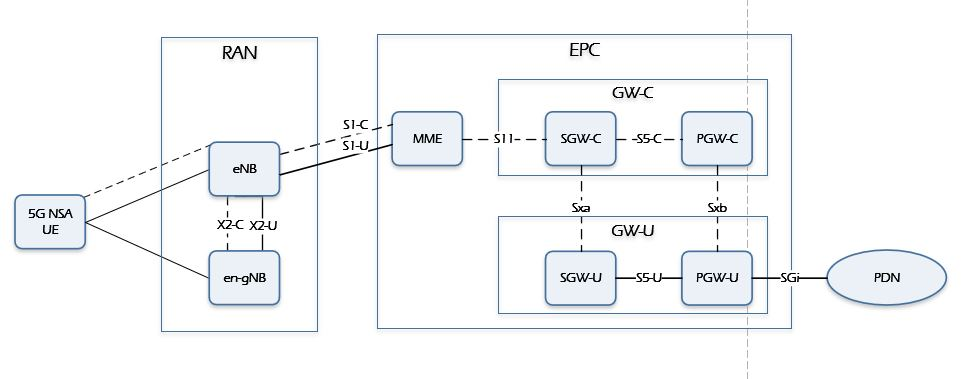
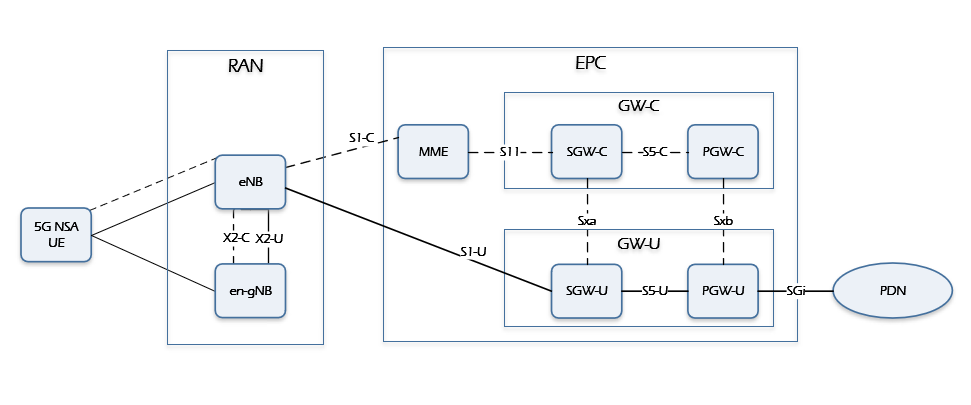
Fixed review comments from Anurag
Corrected the Option 3 and Option 3-a pictures w.r.t S1-U path
Spell check in the document
Removed references not used in the document
Added abbreviations.

diff --git a/doc/core-network/openness_5g_nsa.md b/doc/core-network/openness_5g_nsa.md
@@ -15,12 +15,13 @@ Edge Cloud Deployment with 3GPP 5G Non Stand Alone
   - [OpenNESS deployment for 5G-NSA Option 3x](#openness-deployment-for-5g-nsa-option-3x)
 - [Summary](#summary)
 - [References](#references)
+- [List of abbreviations](#list-of-abbreviations)
 
 # Introduction
 
-Edge Compute is highlighted as a key deployment mechanism for delivering services to end users by placing applications closer to the user. Network and Enterprise operators are trying to take advantage of this advancement to provide low latency, user centric and secure edge services. 
+Edge Compute is highlighted as a key deployment mechanism for delivering services to end users by placing applications closer to the user. Network and Enterprise operators are trying to take advantage of this advancement to provide low latency, user centric and secure edge services.
 
-OpenNESS supports edge compute deployment for LTE(CUPS) as described  in[OpenNESS_EPC] and 5G Stand Alone as described in  [OpenNESS_NGC]. 5G can be deployed in five different deployment options as described in [3GPP 23.799][3GPP_23799], where SA (standalone) options consist of only one generation of radio access technology and NSA (non stand alone) options consist of two generations of radio access technologies (4G LTE and 5G). The early deployments of 5G will be adopting either Non Stand Alone(NSA) option 3 or standalone option 2 as the standardization of these two options have already been completed. The focus of this paper is towards the edge deployment using the **5G NSA Option-3 deployment**. 
+OpenNESS supports edge compute deployment for LTE(CUPS) as described  in[OpenNESS_EPC] and 5G Stand Alone as described in  [OpenNESS_NGC]. 5G can be deployed in five different deployment options as described in [3GPP 23.799][3GPP_23799], where SA (standalone) options consist of only one generation of radio access technology and NSA (non stand alone) options consist of two generations of radio access technologies (4G LTE and 5G). The early deployments of 5G will be adopting either Non Stand Alone(NSA) option 3 or standalone option 2 as the standardization of these two options have already been completed. The focus of this paper is towards the edge deployment using the **5G NSA Option-3 deployment**.
 
 # 5G NSA Option-3 Architecture aspects
 
@@ -69,7 +70,7 @@ In this configuration, the LTE eNB will act as the Master and will have control 
 
 # Edge Deployments with 5G NSA
 
-The focus of this chapter would be considering the 5G NSA Option-3x. Option 3x has been considered as this the industry main stream option as described in [GSMA_5G_NSA]. With the 5G NSA network the benefit seen over LTE networks is only enhanced mobile broadband (eMBB). The 5G features like URLCC, massive IOT cannot be supported as still the 5G NSA core network is based out of EPC. 
+The focus of this chapter would be considering the 5G NSA Option-3x. Option 3x has been considered as this the industry main stream option as described in [GSMA_5G_NSA]. With the 5G NSA network the benefit seen over LTE networks is only enhanced mobile broadband (eMBB). The 5G features like URLLC, massive IOT cannot be supported as still the 5G NSA core network is based out of EPC. 
 
 Before the Edge platform location and integration is described its important to understand the traffic flows considering two different PDN's ( Data and Voice) and along with the UE being in 4G only coverage and dual coverage. The figures here show the traffic flows for the different coverage scenarios: 
 
@@ -91,11 +92,11 @@ There are two possible flows
 
 ## OpenNESS deployment for 5G-NSA Option 3x
 
-The MEC solution is dependant on the Core Network deployed. MEC can be supported in EPC, but without a generic standardized framework. 
+The MEC solution is dependent on the Core Network deployed. MEC can be supported in EPC, but without a generic standardized framework.
 
 For MEC with EPC there are generally two approaches: SGi-based and S1-based.
 
- The SGi-based approach for MEC can be addressed through a distributed anchor point approach. The distributed anchor point approach  has been demonstarted with OpenNESS, as described in [OpenNESS_epc] Deployment model 3. The OpenNESS EPC deployment can work seamlessly with the 5G NSA as long as the traffic intercept point is the SGi Interface. A deployment model of OpenNESS with 5G NSA is shown below: 
+ The SGi-based approach for MEC can be addressed through a distributed anchor point approach. The distributed anchor point approach  has been demonstrated with OpenNESS, as described in [OpenNESS_epc] Deployment model 3. The OpenNESS EPC deployment can work seamlessly with the 5G NSA as long as the traffic intercept point is the SGi Interface. A deployment model of OpenNESS with 5G NSA is shown below:
 
 ![OpenNESS-NSA-DEpc](5g-nsa-images/openness-nsa-depc.png)
 
@@ -105,13 +106,14 @@ The API's exposed by the OpenNESS Core Network Configuration Agent (CNCA) can be
 
 - Selectors: Bind the user plane to APN, TAC, etc. in the control plane, so that UEs can be assigned to a particular user plane (PGW-U and/or SGW-U) at the time of connection establishment.
 
-- Entitlements: Allow further level of control in the gateway selection for UEs at EPC Control plane through IMSIs. It is recommended to use some level of indirect reference of IMSIs (proprietary to the operator network) to identify UEs, rather than to use IMSI itself.
+- Entitlements: Allow further level of control in the gateway selection for UEs at EPC Control plane through IMSI's. It is recommended to use some level of indirect reference of IMSI's (proprietary to the operator network) to identify UEs, rather than to use IMSI itself.
 
-Further informaton on the OpenNESS implementation can be found in [OpenNESS_EPC]
+Further information on the OpenNESS implementation can be found in [OpenNESS_EPC]
 
 The S1-based approach for MEC can be addressed as “bump-in-the-wire” implementation whereby all uplink traffic on S1 is intercepted and inspected, some traffic is diverted towards the MEC platform, while the rest of it is re-injected on S1 in the uplink. S1-based approach is currently not in the scope of OpenNESS functionality
 
 # Summary
+
 This white paper describes an investigation of how the OpenNESS support for LTE CUPS based edge platform can be integrated with an 5G NSA network Option-3x. Further validation of the OpenNESS support for 5G NSA can be carried out with commercial 5G NSA partners.
 
 # References
@@ -122,11 +124,9 @@ This white paper describes an investigation of how the OpenNESS support for LTE 
 
 3. GSMA 5G Implementation Guidelines: NSA Option 3 February 2020 - <https://www.gsma.com/futurenetworks/wp-content/uploads/2019/03/5G-Implementation-Guidelines-NSA-Option-3-v2.1.pdf>
 
-4. ETSI White Paper #24 - MEC Deployments in 4G and Evolution Towards 5G, First Edition, February 2018 - <https://www.etsi.org/images/files/ETSIWhitePapers/etsi_wp24_MEC_deployment_in_4G_5G_FINAL.pdf.>
+4. Edge Cloud Deployment with 3GPP 4G LTE CUPS of EPC - <https://github.com/otcshare/specs/blob/master/doc/core-network/openness_epc.md>
 
-5. Edge Cloud Deployment with 3GPP 4G LTE CUPS of EPC - <https://github.com/otcshare/specs/blob/master/doc/core-network/openness_epc.md>
-
-6. Edge Cloud Deployment with 3GPP 5G Stand Alone - <https://github.com/otcshare/specs/blob/master/doc/core-network/openness_ngc.md>
+5. Edge Cloud Deployment with 3GPP 5G Stand Alone - <https://github.com/otcshare/specs/blob/master/doc/core-network/openness_ngc.md>
 
 [3GPP_23799]: <https://www.3gpp.org/DynaReport/23799.htm> "3GPP 23.799 Study on Architecture for Next Generation System(Release 14) Annex J: Deployment Scenarios"
 
@@ -134,8 +134,27 @@ This white paper describes an investigation of how the OpenNESS support for LTE 
 
 [GSMA_5G_NSA]: <https://www.gsma.com/futurenetworks/wp-content/uploads/2019/03/5G-Implementation-Guidelines-NSA-Option-3-v2.1.pdf> "GSMA 5G Implementation Guidelines: NSA Option 3 February 2020"  
 
-[ETSI_4G_WP]: <https://www.etsi.org/images/files/ETSIWhitePapers/etsi_wp24_MEC_deployment_in_4G_5G_FINAL.pdf.> "ETSI White Paper #24 - MEC Deployments in 4G and Evolution Towards 5G, First Edition, February 2018"
-
 [OpenNESS_EPC]: <https://github.com/otcshare/specs/blob/master/doc/core-network/openness_epc.md> "Edge Cloud Deployment with 3GPP 4G LTE CUPS of EPC"
 
 [OpenNESS_NGC]: <https://github.com/otcshare/specs/blob/master/doc/core-network/openness_ngc.md> "Edge Cloud Deployment with 3GPP 5G Stand Alone"
+
+# List of abbreviations
+
+- 3GPP: Third Generation Partnership Project
+- CUPS: Control and User Plane Separation of EPC Nodes
+- APN: Access Point Name
+- TAC: Tracking Area Code
+- RAN: Radio Access Network
+- UE: User Equipment (in the context of LTE)
+- MME: Mobility Management Entity
+- API: Application Programming Interface
+- ETSI: European Telecommunications Standards Institute
+- HTTP: Hyper Text Transfer Protocol
+- MEC: Multi-Access Edge Computing
+- OpenNESS: Open Network Edge Services Software
+- LTE: Long-Term Evolution
+- OAM: Operations, Administration and Maintenance
+- PDN: Packet Data Network
+- CNCA: Core Network Configuration Agent
+- UI: User Interface
+- URLLC : Ultra-Reliable Low-Latency Communication
